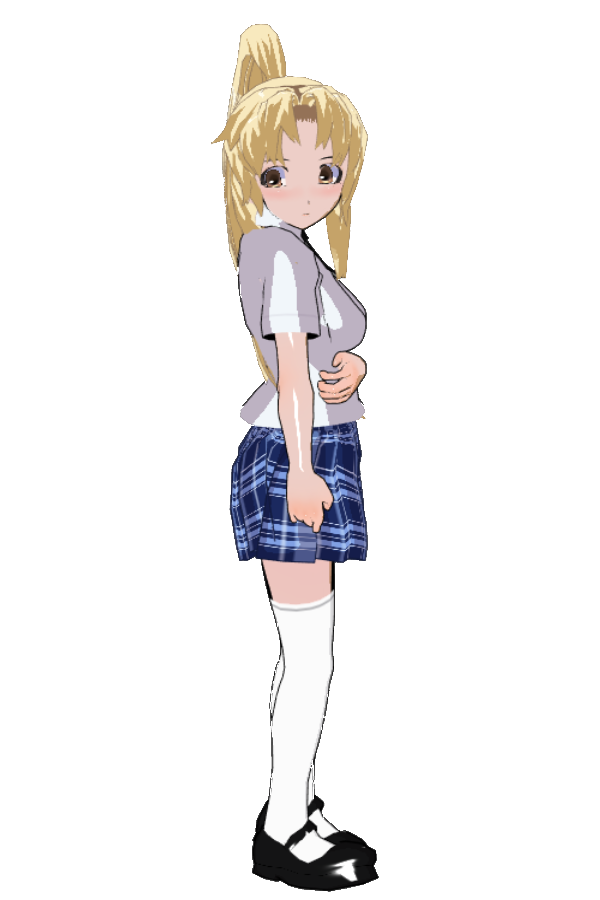
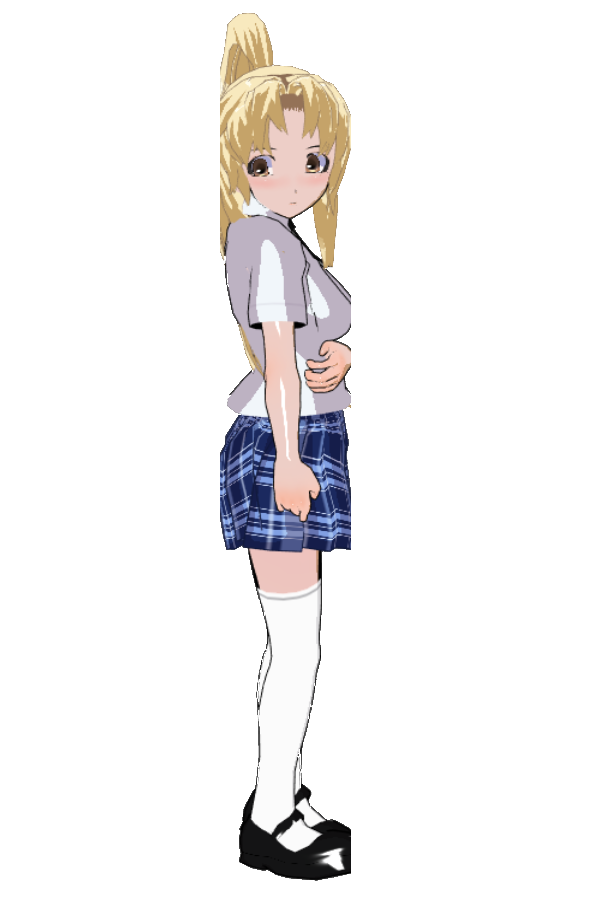
More Chapter 10
More Chapter 10

Changed region(s): [[0.36, 0.0, 0.63, 0.9956]]

diff --git a/C010_Revenge/AmandaSarah/Script.js b/C010_Revenge/AmandaSarah/Script.js
@@ -2,20 +2,26 @@ var C010_Revenge_AmandaSarah_CurrentStage = 0;
 var C010_Revenge_AmandaSarah_AmandaVictim = true;
 var C010_Revenge_AmandaSarah_AmandaGone = false;
 var C010_Revenge_AmandaSarah_SarahGone = false;
+var C010_Revenge_AmandaSarah_IntroText = "";
 
 // Chapter 10 - Amanda and Sarah Revenge Load
 function C010_Revenge_AmandaSarah_Load() {
 
 	// Set the timer limits at 15:15
 	StartTimer(15.25 * 60 * 60 * 1000, "C010_Revenge", "Outro");
+	
+	// Load the scene parameters (loads Sarah first in case we are starting directly in chapter 10)
+	ActorLoad("Sarah", "");
+	ActorLoad("Amanda", "");
 	ActorSpecificSetPose("Amanda", "Furious");
 	ActorSpecificSetPose("Sarah", "Angry");
-	
-	// Load the scene parameters
-	ActorLoad("Amanda", "");
 	LoadInteractions();
 	LeaveIcon = "";
+	Common_SelfBondageAllowed = false;
 	C010_Revenge_AmandaSarah_AmandaVictim = (Common_PlayerCrime == "AmandaStranded");
+
+	// If we must put the previous text back
+	if (C010_Revenge_AmandaSarah_IntroText != "") OverridenIntroText = C010_Revenge_AmandaSarah_IntroText;
 
 }
 
@@ -32,7 +38,7 @@ function C010_Revenge_AmandaSarah_Run() {
 		}
 	} else {
 		if (!C010_Revenge_AmandaSarah_AmandaGone || !C010_Revenge_AmandaSarah_SarahGone) {
-			if (C010_Revenge_AmandaSarah_CurrentStage == 55)
+			if ((C010_Revenge_AmandaSarah_CurrentStage == 55) || (C010_Revenge_AmandaSarah_CurrentStage == 75))
 				DrawActor(CurrentActor, 690, 20, 0.75);
 			else
 				DrawInteractionActor();			
@@ -42,7 +48,17 @@ function C010_Revenge_AmandaSarah_Run() {
 
 // Chapter 10 - Amanda and Sarah Revenge Click
 function C010_Revenge_AmandaSarah_Click() {	
+
+	// Regular interactions
 	ClickInteraction(C010_Revenge_AmandaSarah_CurrentStage);
+	
+	// The player can click on herself
+	var ClickInv = GetClickedInventory();
+	if (ClickInv == "Player") {
+		C010_Revenge_AmandaSarah_IntroText = OverridenIntroText;
+		InventoryClick(ClickInv, CurrentChapter, CurrentScreen);
+	}
+	
 }
 
 // Chapter 10 - Amanda and Sarah Revenge - Switch the focus to another actor
@@ -53,47 +69,69 @@ function C010_Revenge_AmandaSarah_SwitchFocus(ActorToFocus) {
 	LeaveIcon = "";
 }
 
-// Chapter 10 - Amanda and Sarah Revenge - Sarah Kneels
+// Chapter 10 - Amanda and Sarah Revenge - Amanda kneels
+function C010_Revenge_AmandaSarah_AmandaKneel() {
+	ActorSpecificSetPose("Amanda", "Kneeling");
+	ActorSpecificSetPose("Sarah", "Furious");
+	CurrentTime = CurrentTime + 50000;
+}
+
+// Chapter 10 - Amanda and Sarah Revenge - Sarah kneels
 function C010_Revenge_AmandaSarah_SarahKneel() {
 	ActorSpecificSetPose("Sarah", "Kneeling");
 	ActorSpecificSetPose("Amanda", "Furious");
+	CurrentTime = CurrentTime + 50000;
 }
 
-// Chapter 10 - Amanda and Sarah Revenge - Sarah Leaves
+// Chapter 10 - Amanda and Sarah Revenge - Amanda leaves
+function C010_Revenge_AmandaSarah_AmandaLeave() {
+	C010_Revenge_AmandaSarah_AmandaGone = true;
+	if (!C010_Revenge_AmandaSarah_SarahGone) C010_Revenge_AmandaSarah_SwitchFocus("Sarah");
+	CurrentTime = CurrentTime + 50000;
+}
+
+// Chapter 10 - Amanda and Sarah Revenge - Sarah leaves
 function C010_Revenge_AmandaSarah_SarahLeave() {
 	C010_Revenge_AmandaSarah_SarahGone = true;
 	if (!C010_Revenge_AmandaSarah_AmandaGone) C010_Revenge_AmandaSarah_SwitchFocus("Amanda");
+	CurrentTime = CurrentTime + 50000;
+}
+
+// Chapter 10 - Amanda and Sarah Revenge - Actor calms down (stops the pose)
+function C010_Revenge_AmandaSarah_CalmDown(ActorToCalm) {
+	ActorSpecificSetPose(ActorToCalm, "");
+}
+
+// Chapter 10 - Amanda and Sarah Revenge - When the actor enters the locker
+function C010_Revenge_AmandaSarah_EnterLocker(ActorInLocker) {
+	ActorSpecificSetPose(ActorInLocker, "Locker");
+	CurrentTime = CurrentTime + 50000;
+}
+
+// Chapter 10 - Amanda and Sarah Revenge - When the player opens the locker
+function C010_Revenge_AmandaSarah_OpenLocker(ActorInLocker) {
+	if (ActorInLocker == "Amanda") C010_Revenge_AmandaSarah_AmandaGone = false;
+	if (ActorInLocker == "Sarah") C010_Revenge_AmandaSarah_SarahGone = false;
+	CurrentTime = CurrentTime + 50000;
+}
+
+// Chapter 10 - Amanda and Sarah Revenge - When the player closer the locker
+function C010_Revenge_AmandaSarah_CloseLocker(ActorInLocker) {
+	if (ActorInLocker == "Amanda") C010_Revenge_AmandaSarah_AmandaGone = true;
+	if (ActorInLocker == "Sarah") C010_Revenge_AmandaSarah_SarahGone = true;
+	CurrentTime = CurrentTime + 50000;
 }
 
 // Chapter 10 - Amanda and Sarah Revenge - Steal Items
 function C010_Revenge_AmandaSarah_StealItems() {
 	PlayerSaveAllInventory();
 	PlayerRemoveAllInventory();
+	CurrentTime = CurrentTime + 50000;
 }
 
-// Chapter 10 - Amanda and Sarah Revenge - Amanda Calm Down
-function C010_Revenge_AmandaSarah_AmandaCalmDown() {
-	ActorSpecificSetPose("Amanda", "");
-}
-
-// Chapter 10 - Amanda and Sarah Revenge - Amanda Locker
-function C010_Revenge_AmandaSarah_AmandaLocker() {
-	ActorSpecificSetPose("Amanda", "Locker");
-}
-
-// Chapter 10 - Amanda and Sarah Revenge - Amanda leaves the scene
-function C010_Revenge_AmandaSarah_AmandaCloseLocker() {
-	C010_Revenge_AmandaSarah_AmandaGone = true;
-	if (!C010_Revenge_AmandaSarah_SarahGone) C010_Revenge_AmandaSarah_SwitchFocus("Sarah");
-}
-
-// Chapter 10 - Amanda and Sarah Revenge - Amanda enters the scene
-function C010_Revenge_AmandaSarah_AmandaOpenLocker() {
-	C010_Revenge_AmandaSarah_AmandaGone = false;
-}
-
-// Chapter 10 - Amanda and Sarah Revenge - Start the fight
+// Chapter 10 - Amanda and Sarah Revenge - Starts the fight
 function C010_Revenge_AmandaSarah_StartFight() {
+	ActorSpecificChangeAttitude("Sarah", -2, 1);
 }
 
 // Chapter 10 - Amanda and Sarah Revenge - End the revenge and flag the end

diff --git a/C010_Revenge/Intro/Script.js b/C010_Revenge/Intro/Script.js
@@ -1,6 +1,12 @@
 // Chapter 10 - Revenge Load
 function C010_Revenge_Intro_Load() {
 
+	// If there's no crime, it means the player started on chapter 6, we pick a teacher at random
+	if (Common_PlayerCrime == "") {
+		if (Math.floor(Math.random() * 2) == 1) Common_PlayerCrime = "AmandaStranded";
+		else Common_PlayerCrime = "SarahStranded";
+	}
+
 	// Time is always 14:15 on the intro, no timer
 	StopTimer(14.25 * 60 * 60 * 1000);
 	
@@ -11,11 +17,11 @@ function C010_Revenge_Intro_Run() {
 	
 	// Paints the background
 	var ctx = document.getElementById("MainCanvas").getContext("2d");
-	DrawImage(ctx, CurrentChapter + "/" + CurrentScreen + "/Background.jpg", -200, 0);
+	DrawImage(ctx, CurrentChapter + "/" + CurrentScreen + "/Background.jpg", 0, 0);
+	DrawPlayerTransition(ctx);
 
 	// Amanda or Sarah intro
 	if ((Common_PlayerCrime == "AmandaStranded") || (Common_PlayerCrime == "SarahStranded")) {
-		DrawImage(ctx, CurrentChapter + "/" + CurrentScreen + "/AmandaSarah.jpg", 800, 0);	
 		DrawText(ctx, GetText("AmandaSarah1"), 400, 150, "White");
 		if (TextPhase >= 1) DrawText(ctx, GetText("AmandaSarah2"), 400, 250, "White");
 		if (TextPhase >= 2) DrawText(ctx, GetText("AmandaSarah3"), 400, 350, "White");
@@ -24,7 +30,6 @@ function C010_Revenge_Intro_Run() {
 	
 	// Sidney or Jennifer intro	
 	if ((Common_PlayerCrime == "SidneyStranded") || (Common_PlayerCrime == "JenniferStranded")) {
-		DrawImage(ctx, CurrentChapter + "/" + CurrentScreen + "/SidneyJennifer.jpg", 800, 0);
 		DrawText(ctx, GetText("SidneyJennifer1"), 400, 150, "White");
 		if (TextPhase >= 1) DrawText(ctx, GetText("SidneyJennifer2"), 400, 250, "White");
 		if (TextPhase >= 2) DrawText(ctx, GetText("SidneyJennifer3"), 400, 350, "White");

diff --git a/C006_Isolation/Intro/Script.js b/C006_Isolation/Intro/Script.js
@@ -22,13 +22,14 @@ function C006_Isolation_Intro_Run() {
 	// Paints the background
 	var ctx = document.getElementById("MainCanvas").getContext("2d");
 	DrawImage(ctx, CurrentChapter + "/" + CurrentScreen + "/Background.jpg", 0, 0);
+	DrawPlayerTransition(ctx);
 
 	// Write the chapter introduction
-	DrawText(ctx, GetText("Intro1"), 600, 150, "White");
-	if ((TextPhase >= 1) && (Common_PlayerCrime == "RestrainMildred")) DrawText(ctx, GetText("Intro2Mildred"), 600, 250, "White");
-	if ((TextPhase >= 1) && (Common_PlayerCrime == "DrugYuki")) DrawText(ctx, GetText("Intro2Yuki"), 600, 250, "White");
-	if (TextPhase >= 2) DrawText(ctx, GetText("Intro3"), 600, 350, "White");
-	if (TextPhase >= 3) DrawText(ctx, GetText("Intro4"), 600, 450, "White");
+	DrawText(ctx, GetText("Intro1"), 450, 150, "White");
+	if ((TextPhase >= 1) && (Common_PlayerCrime == "RestrainMildred")) DrawText(ctx, GetText("Intro2Mildred"), 450, 250, "White");
+	if ((TextPhase >= 1) && (Common_PlayerCrime == "DrugYuki")) DrawText(ctx, GetText("Intro2Yuki"), 450, 250, "White");
+	if (TextPhase >= 2) DrawText(ctx, GetText("Intro3"), 450, 350, "White");
+	if (TextPhase >= 3) DrawText(ctx, GetText("Intro4"), 450, 450, "White");
 
 }
 

diff --git a/C003_MorningDetention/Intro/Script.js b/C003_MorningDetention/Intro/Script.js
@@ -19,14 +19,15 @@ function C003_MorningDetention_Intro_Run() {
 	// Paints the background
 	var ctx = document.getElementById("MainCanvas").getContext("2d");
 	DrawImage(ctx, CurrentChapter + "/" + CurrentScreen + "/Background.jpg", 0, 0);
+	DrawPlayerTransition(ctx);
 
 	// Write the chapter introduction
-	DrawText(ctx, GetText("Intro1"), 600, 50, "White");
-	if (TextPhase >= 1) DrawText(ctx, GetText("Intro2"), 600, 150, "White");
-	if (TextPhase >= 2) DrawText(ctx, GetText("Intro3"), 600, 250, "White");
-	if (TextPhase >= 3) DrawText(ctx, GetText("Intro4"), 600, 350, "White");
-	if (TextPhase >= 4) DrawText(ctx, GetText("Intro5"), 600, 450, "White");
-	if (TextPhase >= 5) DrawText(ctx, GetText("Intro6"), 600, 550, "White");
+	DrawText(ctx, GetText("Intro1"), 450, 50, "White");
+	if (TextPhase >= 1) DrawText(ctx, GetText("Intro2"), 450, 150, "White");
+	if (TextPhase >= 2) DrawText(ctx, GetText("Intro3"), 450, 250, "White");
+	if (TextPhase >= 3) DrawText(ctx, GetText("Intro4"), 450, 350, "White");
+	if (TextPhase >= 4) DrawText(ctx, GetText("Intro5"), 450, 450, "White");
+	if (TextPhase >= 5) DrawText(ctx, GetText("Intro6"), 450, 550, "White");
 		
 }
 

diff --git a/C002_FirstClass/Intro/Script.js b/C002_FirstClass/Intro/Script.js
@@ -12,13 +12,14 @@ function C002_FirstClass_Intro_Run() {
 	// Paints the background
 	var ctx = document.getElementById("MainCanvas").getContext("2d");
 	DrawImage(ctx, CurrentChapter + "/" + CurrentScreen + "/Background.jpg", 0, 0);
+	DrawPlayerTransition(ctx);
 
 	// Write the chapter introduction
-	DrawText(ctx, GetText("Intro1"), 600, 100, "White");
-	if (TextPhase >= 1) DrawText(ctx, GetText("Intro2"), 600, 200, "White");
-	if (TextPhase >= 2) DrawText(ctx, GetText("Intro3"), 600, 300, "White");
-	if (TextPhase >= 3) DrawText(ctx, GetText("Intro4"), 600, 400, "White");
-	if (TextPhase >= 4) DrawText(ctx, GetText("Intro5"), 600, 500, "White");
+	DrawText(ctx, GetText("Intro1"), 450, 100, "White");
+	if (TextPhase >= 1) DrawText(ctx, GetText("Intro2"), 450, 200, "White");
+	if (TextPhase >= 2) DrawText(ctx, GetText("Intro3"), 450, 300, "White");
+	if (TextPhase >= 3) DrawText(ctx, GetText("Intro4"), 450, 400, "White");
+	if (TextPhase >= 4) DrawText(ctx, GetText("Intro5"), 450, 500, "White");
 
 }
 

diff --git a/C004_ArtClass/Intro/Script.js b/C004_ArtClass/Intro/Script.js
@@ -16,13 +16,14 @@ function C004_ArtClass_Intro_Run() {
 	// Paints the background
 	var ctx = document.getElementById("MainCanvas").getContext("2d");
 	DrawImage(ctx, CurrentChapter + "/" + CurrentScreen + "/Background.jpg", 0, 0);
+	DrawPlayerTransition(ctx);
 
 	// Write the chapter introduction
-	DrawText(ctx, GetText("Intro1"), 600, 100, "White");
-	if (TextPhase >= 1) DrawText(ctx, GetText("Intro2"), 600, 200, "White");
-	if (TextPhase >= 2) DrawText(ctx, GetText("Intro3"), 600, 300, "White");
-	if (TextPhase >= 3) DrawText(ctx, GetText("Intro4"), 600, 400, "White");
-	if (TextPhase >= 4) DrawText(ctx, GetText("Intro5"), 600, 500, "White");
+	DrawText(ctx, GetText("Intro1"), 450, 100, "White");
+	if (TextPhase >= 1) DrawText(ctx, GetText("Intro2"), 450, 200, "White");
+	if (TextPhase >= 2) DrawText(ctx, GetText("Intro3"), 450, 300, "White");
+	if (TextPhase >= 3) DrawText(ctx, GetText("Intro4"), 450, 400, "White");
+	if (TextPhase >= 4) DrawText(ctx, GetText("Intro5"), 450, 500, "White");
 
 }
 

diff --git a/C005_GymClass/Intro/Script.js b/C005_GymClass/Intro/Script.js
@@ -16,13 +16,14 @@ function C005_GymClass_Intro_Run() {
 	// Paints the background
 	var ctx = document.getElementById("MainCanvas").getContext("2d");
 	DrawImage(ctx, CurrentChapter + "/" + CurrentScreen + "/Background.jpg", 0, 0);
+	DrawPlayerTransition(ctx);
 
 	// Write the chapter introduction
-	DrawText(ctx, GetText("Intro1"), 600, 100, "White");
-	if (TextPhase >= 1) DrawText(ctx, GetText("Intro2"), 600, 200, "White");
-	if (TextPhase >= 2) DrawText(ctx, GetText("Intro3"), 600, 300, "White");
-	if (TextPhase >= 3) DrawText(ctx, GetText("Intro4"), 600, 400, "White");
-	if (TextPhase >= 4) DrawText(ctx, GetText("Intro5"), 600, 500, "White");
+	DrawText(ctx, GetText("Intro1"), 450, 100, "White");
+	if (TextPhase >= 1) DrawText(ctx, GetText("Intro2"), 450, 200, "White");
+	if (TextPhase >= 2) DrawText(ctx, GetText("Intro3"), 450, 300, "White");
+	if (TextPhase >= 3) DrawText(ctx, GetText("Intro4"), 450, 400, "White");
+	if (TextPhase >= 4) DrawText(ctx, GetText("Intro5"), 450, 500, "White");
 
 }
 

diff --git a/C007_LunchBreak/Intro/Script.js b/C007_LunchBreak/Intro/Script.js
@@ -12,12 +12,13 @@ function C007_LunchBreak_Intro_Run() {
 	// Paints the background
 	var ctx = document.getElementById("MainCanvas").getContext("2d");
 	DrawImage(ctx, CurrentChapter + "/" + CurrentScreen + "/Background.jpg", 0, 0);
+	DrawPlayerTransition(ctx);
 
 	// Write the chapter introduction
-	DrawText(ctx, GetText("Intro1"), 600, 150, "White");
-	if (TextPhase >= 1) DrawText(ctx, GetText("Intro2"), 600, 250, "White");
-	if (TextPhase >= 2) DrawText(ctx, GetText("Intro3"), 600, 350, "White");
-	if (TextPhase >= 3) DrawText(ctx, GetText("Intro4"), 600, 450, "White");
+	DrawText(ctx, GetText("Intro1"), 450, 150, "White");
+	if (TextPhase >= 1) DrawText(ctx, GetText("Intro2"), 450, 250, "White");
+	if (TextPhase >= 2) DrawText(ctx, GetText("Intro3"), 450, 350, "White");
+	if (TextPhase >= 3) DrawText(ctx, GetText("Intro4"), 450, 450, "White");
 
 }
 

diff --git a/C008_DramaClass/Intro/Script.js b/C008_DramaClass/Intro/Script.js
@@ -12,12 +12,13 @@ function C008_DramaClass_Intro_Run() {
 	// Paints the background
 	var ctx = document.getElementById("MainCanvas").getContext("2d");
 	DrawImage(ctx, CurrentChapter + "/" + CurrentScreen + "/Background.jpg", 0, 0);
+	DrawPlayerTransition(ctx);
 
 	// Write the chapter introduction
-	DrawText(ctx, GetText("Intro1"), 600, 150, "White");
-	if (TextPhase >= 1) DrawText(ctx, GetText("Intro2"), 600, 250, "White");
-	if (TextPhase >= 2) DrawText(ctx, GetText("Intro3"), 600, 350, "White");
-	if (TextPhase >= 3) DrawText(ctx, GetText("Intro4"), 600, 450, "White");
+	DrawText(ctx, GetText("Intro1"), 450, 150, "White");
+	if (TextPhase >= 1) DrawText(ctx, GetText("Intro2"), 450, 250, "White");
+	if (TextPhase >= 2) DrawText(ctx, GetText("Intro3"), 450, 350, "White");
+	if (TextPhase >= 3) DrawText(ctx, GetText("Intro4"), 450, 450, "White");
 
 }
 

diff --git a/C001_BeforeClass/Intro/Script.js b/C001_BeforeClass/Intro/Script.js
@@ -11,10 +11,10 @@ function C001_BeforeClass_Intro_Run() {
 	
 	// Draw the background and player
 	var ctx = document.getElementById("MainCanvas").getContext("2d");
-	if (TextPhase <= 2) DrawImage(ctx, CurrentChapter + "/" + CurrentScreen + "/Background1.jpg", -150, 0);
-	else DrawImage(ctx, CurrentChapter + "/" + CurrentScreen + "/Background2.jpg", -150, 0);
-	DrawImage(ctx, CurrentChapter + "/" + CurrentScreen + "/Player.jpg", 900, 0);
-		
+	if (TextPhase <= 2) DrawImage(ctx, CurrentChapter + "/" + CurrentScreen + "/Background1.jpg", 0, 0);
+	else DrawImage(ctx, CurrentChapter + "/" + CurrentScreen + "/Background2.jpg", 0, 0);
+	DrawPlayerTransition(ctx);
+	
 	// Introduce chapter 1 with each clicks
 	DrawText(ctx, GetText("Intro1"), 450, 50, "White");
 	if (TextPhase >= 1) DrawText(ctx, GetText("Intro2"), 450, 150, "White");

diff --git a/C010_Revenge/EarlyEnding/Script.js b/C010_Revenge/EarlyEnding/Script.js
@@ -2,7 +2,7 @@ var C010_Revenge_EarlyEnding_Type = "";
 
 // Chapter 10 - Early Ending Load
 function C010_Revenge_EarlyEnding_Load() {
-	
+
 	// Stop the timer for the transition
 	StopTimer(CurrentTime);
 	PlayerReleaseBondage();
@@ -20,8 +20,8 @@ function C010_Revenge_EarlyEnding_Run() {
 	// Paints the background
 	var ctx = document.getElementById("MainCanvas").getContext("2d");
 	DrawRect(ctx, 0, 0, 800, 600, "black");
-	DrawImage(ctx, CurrentChapter + "/" + CurrentScreen + "/Background.jpg", -150, 0);
-	DrawImage(ctx, CurrentChapter + "/" + CurrentScreen + "/Player.jpg", 900, 0);
+	DrawImage(ctx, CurrentChapter + "/" + CurrentScreen + "/Background.jpg", 0, 0);
+	DrawPlayerTransition(ctx);
 
 	// Draw the outro text
 	DrawText(ctx, GetText(C010_Revenge_EarlyEnding_Type + "1"), 450, 150, "White");

diff --git a/C000_Intro/Intro/Script.js b/C000_Intro/Intro/Script.js
@@ -11,8 +11,8 @@ function C000_Intro_Intro_Run() {
 	
 	// Paints the background
 	var ctx = document.getElementById("MainCanvas").getContext("2d");
-	DrawImage(ctx, CurrentChapter + "/" + CurrentScreen + "/Background.jpg", -150, 0);
-	DrawImage(ctx, CurrentChapter + "/" + CurrentScreen + "/Player.jpg", 900, 0);
+	DrawImage(ctx, CurrentChapter + "/" + CurrentScreen + "/Background.jpg", 0, 0);
+	DrawPlayerTransition(ctx);
 
 	// Draw the intro text
 	DrawText(ctx, GetText("Intro1"), 450, 100, "White");
